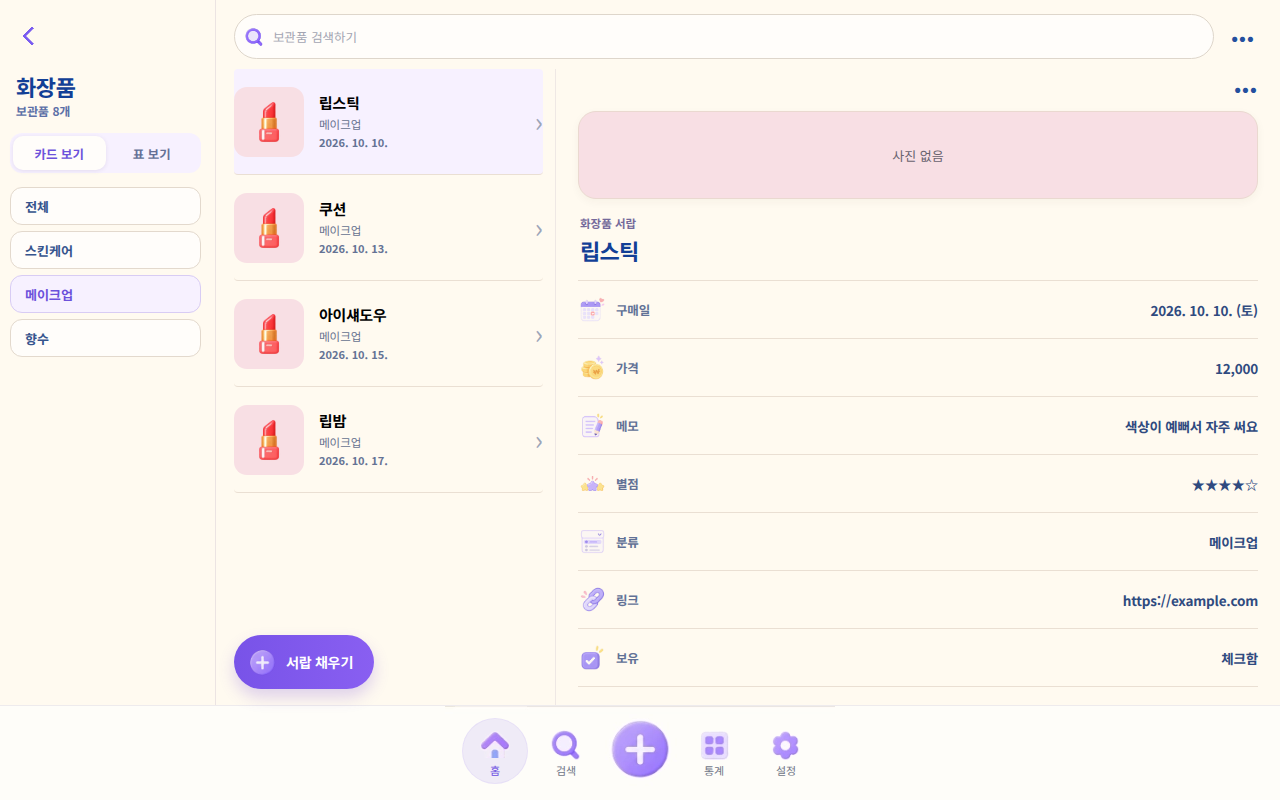
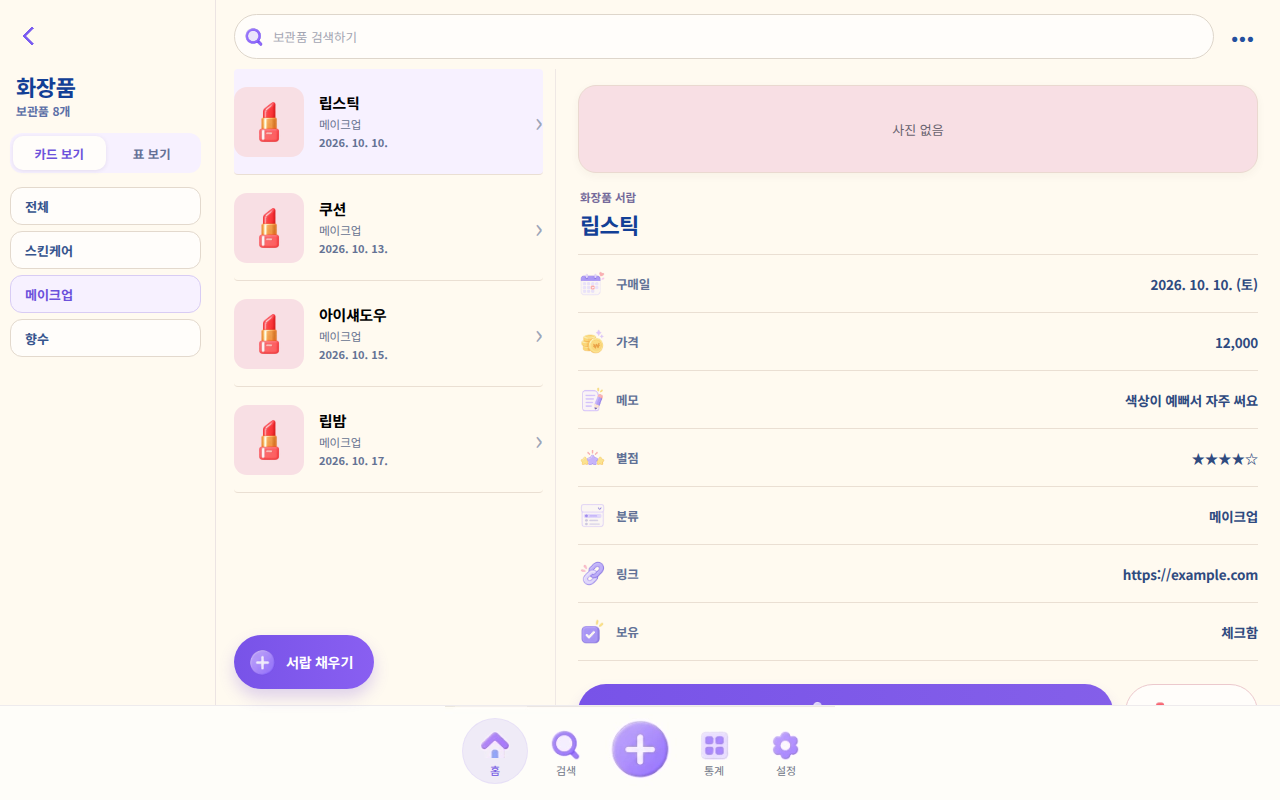
Wide item pane: edit and delete buttons side by side instead of a second ••• menu
Claude-Session: https://claude.ai/code/session_01GjqJbS89D4DFQDLTKoRXvw

Changed region(s): [[0.4375, 0.0938, 1.0, 0.9062], [0.875, 0.3438, 1.0, 0.8438]]

diff --git a/drawary-v2/src/screens/RecordDetailScreen.tsx b/drawary-v2/src/screens/RecordDetailScreen.tsx
@@ -105,50 +105,32 @@ export function RecordDetailScreen({
 
   return (
     <section className={`rd-screen${embedded ? ' rd-screen--embedded' : ''}`}>
-      {embedded ? (
-        <div className="rd-embedded-bar">
-          <button
-            className="rd-menu"
-            type="button"
-            onClick={() => setMenuOpen((v) => !v)}
-            aria-expanded={menuOpen}
-            aria-label={t('보관품 메뉴')}
-          >•••</button>
-          {menuOpen && (
-            <div className="rd-menu-popover" role="menu">
-              <button type="button" role="menuitem" onClick={() => { setMenuOpen(false); setDeleteConfirmOpen(true); }}>
-                <img src="/assets/ui-icons/icon_delete.webp" alt="" />
-                <span>{t('보관품 삭제')}</span>
-              </button>
-            </div>
-          )}
-        </div>
-      ) : (
-      <ScreenHeader
-        variant="stacked"
-        title={t('보관품 상세')}
-        onBack={onBack}
-        height={92}
-        rightSlot={
-          <>
-            <button
-              className="rd-menu"
-              type="button"
-              onClick={() => setMenuOpen((v) => !v)}
-              aria-expanded={menuOpen}
-              aria-label={t('보관품 메뉴')}
-            >•••</button>
-            {menuOpen && (
-              <div className="rd-menu-popover" role="menu">
-                <button type="button" role="menuitem" onClick={() => { setMenuOpen(false); setDeleteConfirmOpen(true); }}>
-                  <img src="/assets/ui-icons/icon_delete.webp" alt="" />
-                  <span>{t('보관품 삭제')}</span>
-                </button>
-              </div>
-            )}
-          </>
-        }
-      />
+      {!embedded && (
+        <ScreenHeader
+          variant="stacked"
+          title={t('보관품 상세')}
+          onBack={onBack}
+          height={92}
+          rightSlot={
+            <>
+              <button
+                className="rd-menu"
+                type="button"
+                onClick={() => setMenuOpen((v) => !v)}
+                aria-expanded={menuOpen}
+                aria-label={t('보관품 메뉴')}
+              >•••</button>
+              {menuOpen && (
+                <div className="rd-menu-popover" role="menu">
+                  <button type="button" role="menuitem" onClick={() => { setMenuOpen(false); setDeleteConfirmOpen(true); }}>
+                    <img src="/assets/ui-icons/icon_delete.webp" alt="" />
+                    <span>{t('보관품 삭제')}</span>
+                  </button>
+                </div>
+              )}
+            </>
+          }
+        />
       )}
 
       <section className="rd-content">
@@ -184,10 +166,23 @@ export function RecordDetailScreen({
           ))}
         </dl>
 
-        <button className="rd-edit" type="button" onClick={onEdit}>
-          <img src="/assets/ui-icons/icon_edit.webp" alt="" />
-          <span>{t('수정하기')}</span>
-        </button>
+        {embedded ? (
+          <div className="rd-actions">
+            <button className="rd-edit" type="button" onClick={onEdit}>
+              <img src="/assets/ui-icons/icon_edit.webp" alt="" />
+              <span>{t('수정하기')}</span>
+            </button>
+            <button className="rd-delete" type="button" onClick={() => setDeleteConfirmOpen(true)}>
+              <img src="/assets/ui-icons/icon_delete.webp" alt="" />
+              <span>{t('삭제하기')}</span>
+            </button>
+          </div>
+        ) : (
+          <button className="rd-edit" type="button" onClick={onEdit}>
+            <img src="/assets/ui-icons/icon_edit.webp" alt="" />
+            <span>{t('수정하기')}</span>
+          </button>
+        )}
       </section>
 
       {deleteConfirmOpen && (

diff --git a/drawary-v2/src/wide/wide.css b/drawary-v2/src/wide/wide.css
@@ -81,10 +81,7 @@
 
 /* ---- the item pane inside the drawer (RecordDetailScreen embedded) ---- */
 .rd-screen--embedded { position: static; width: 100%; height: 100%; overflow-y: auto; }
-.rd-screen--embedded .rd-content { padding: 6px 22px 90px; }
-.rd-embedded-bar { display: flex; justify-content: flex-end; padding: 2px 14px 0; }
-.rd-embedded-bar .rd-menu { position: relative; right: auto; bottom: auto; cursor: pointer; }
-.rd-screen--embedded .rd-menu-popover { top: 40px; right: 14px; }
+.rd-screen--embedded .rd-content { padding: 16px 22px 90px; }
 .wd-detail-empty { display: grid; place-items: center; height: 100%; margin: 0; padding: 0 40px; text-align: center; color: var(--tc-6b6785,#6b6785); font-size: 14px; line-height: 1.6; }
 
 /* ---- the table (#20) filling a landscape window ---- */
@@ -105,3 +102,8 @@
 .wd-detail .rd-content { max-width: 760px; }
 /* no photo: a slim placeholder, so the item's fields start higher instead of under a big empty box */
 .rd-screen--embedded .rd-photo.is-empty { height: 88px; }
+/* in the item pane, "수정하기" and "삭제하기" sit side by side (no "•••" menu: the drawer's own "•••" is already on screen) */
+.rd-actions { display: flex; gap: 12px; margin-top: 23px; }
+.rd-actions .rd-edit { flex: 1 1 auto; width: auto; margin-top: 0; }
+.rd-actions .rd-delete { flex: 0 0 auto; height: 56px; padding: 0 22px; border: 1px solid #ecc9cd; border-radius: 28px; background: #fffdfa; color: #b4515b; display: flex; align-items: center; justify-content: center; gap: 8px; font-size: 15px; font-weight: 800; cursor: pointer; }
+.rd-actions .rd-delete img { width: 24px; height: 24px; object-fit: contain; }

diff --git a/drawary-v2/docs/V2_12_18_PHONE_FEEDBACK_FIXES.md b/drawary-v2/docs/V2_12_18_PHONE_FEEDBACK_FIXES.md
@@ -58,7 +58,7 @@ Window classes (`src/components/appScale.ts`, `layoutKindFor`):
 
 What each class gets (home, drawer #15 and table #20 only; every other screen keeps its phone screen, in `wide` next to the tab screen as in the first preview):
 - Home: the approved drawer cards (same 165 x 158 card, art and colours) in as many columns as fit. `wide` adds a drawer sidebar (every drawer with its count, "모든 서랍"; no "새 서랍 만들기" button there - the nav's + does that); `land` puts the brand and counts in the top row and shrinks the grid to 80%.
-- Drawer: left column = back arrow, drawer name and count, 카드 보기 / 표 보기, filter chips. Right = search + "•••" (표로 보기 / 서랍 관리, as in #15). `wide`: list (#15's own row design) beside the chosen item (#16's content, embedded); `land`: grid of item cards, tapping one opens #16 as on a phone.
+- Drawer (wide): the item pane has "수정하기" and "삭제하기" buttons side by side (no second "•••" menu; the drawer's own "•••" stays by the search box). Left column = back arrow, drawer name and count, 카드 보기 / 표 보기, filter chips. Right = search + "•••" (표로 보기 / 서랍 관리, as in #15). `wide`: list (#15's own row design) beside the chosen item (#16's content, embedded); `land`: grid of item cards, tapping one opens #16 as on a phone.
 - Table: the approved table fills the window; `wide` adds the same drawer sidebar (switching drawer keeps the table open). Sort / filter sheets are the approved ones.
 - The approved bottom nav stays at the bottom (390 artwork centered); in these three screens it is shown on a landscape window although on phones it is hidden there (the proposals show it).
 
